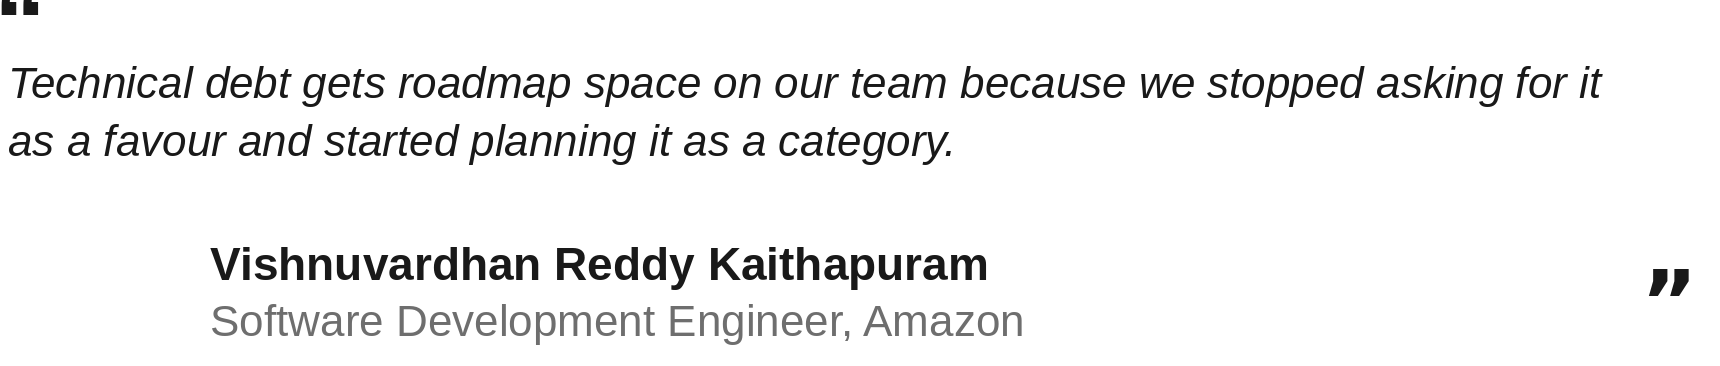
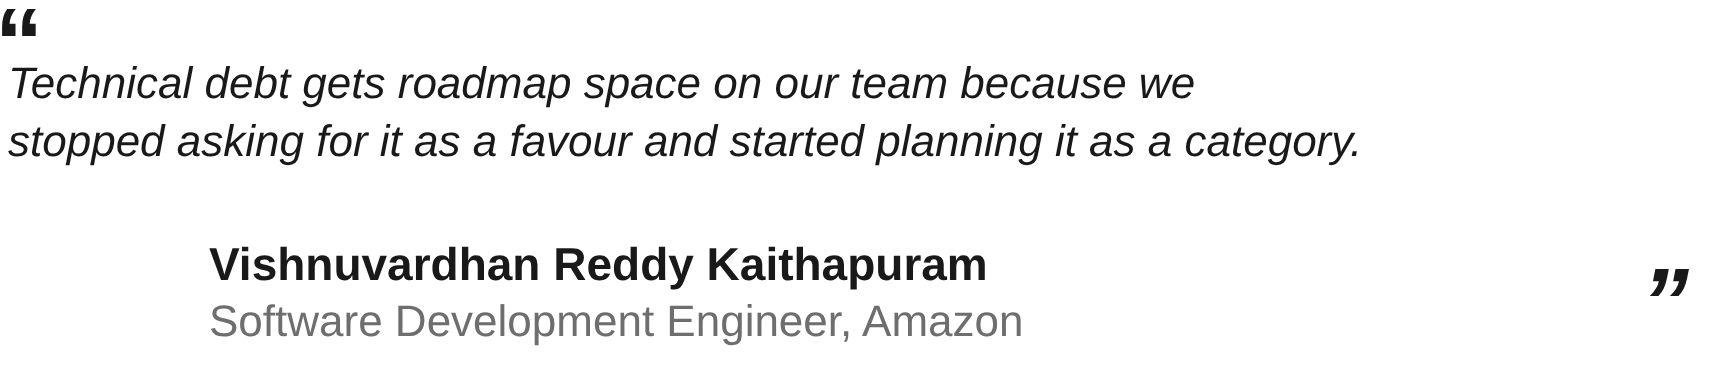
fix(featured): render every quote card from one template
What changed
- scripts/render-quote-card.py: renders a Featured In quote card as
  lossless WebP from the quote text, exactly as published. One HTML
  template (1720 by 366, Arial or a metric twin, the existing cards'
  sizes and positions to within a pixel), drawn in Chromium.
- The four cards made for this site (Informatics Magazine Nov 2 and
  Nov 3, CTO Sync Nov 3, Tech Magazine Nov 4) are re-rendered from it.
  Their wording is unchanged; it matches the published articles word
  for word, spelling included ("favour", "prioritise").
- README and how-the-site-works name the script.

Why
- On all four cards the opening quote mark was cut off at the top edge,
  leaving only its lower sliver. It now sits whole inside the card.
- The Tech Magazine card was set in a different typeface, with a larger
  name line, so the carousel stopped reading as one set.
- The quote lines are balanced: no card ends on a stub such as "day's
  events due to partial outages" under a full first line.

How verified
Measured text bands against the CTO Sync card before the change; the
template lands within 2px on every line. Rerunning the script
reproduces each committed file byte for byte. Each quote checked
against its live article: the Nov 3 and Nov 4 quotes appear word for
word, with the stated section headings and dates.

Claude-Session: https://claude.ai/code/session_01DFHbYYyo8HvuWXtSsiBwqD

diff --git a/scripts/render-quote-card.py b/scripts/render-quote-card.py
@@ -1,0 +1,91 @@
+#!/usr/bin/env python3
+"""Render a Featured In quote card as lossless WebP.
+
+    python3 scripts/render-quote-card.py assets/quote-<slug>.webp "Quote text, as published."
+
+The cards for the Informatics Magazine, CTO Sync, and Tech Magazine quotes
+are made for this site in the style of the Label Your Data quote blocks:
+1720 by 366, white, the quote in italics under an opening mark, then the
+credit line with a closing mark at the right. There is no photo, by the
+owner's rule for this site. Every card comes from this one template, so
+the carousel reads as a set: same typeface, sizes, and positions. The two
+quote lines are balanced, so no card ends on a stub of a line.
+
+The quote text is passed exactly as published, spelling included
+("favour", "prioritise"). The credit line defaults to the one on every
+card; --name and --title change it.
+
+Needs Playwright with a Chromium (the test suite's) and Pillow. The type
+is Arial, or a metric-compatible substitute such as Liberation Sans, so
+line breaks fall where they do on the existing cards.
+"""
+
+from __future__ import annotations
+
+import argparse
+import html
+import sys
+import tempfile
+from pathlib import Path
+
+ROOT = Path(__file__).resolve().parents[1]
+sys.path.insert(0, str(ROOT / "tests"))
+
+from helpers import chromium_launch_kwargs  # noqa: E402
+from playwright.sync_api import sync_playwright  # noqa: E402
+
+WIDTH, HEIGHT = 1720, 366
+
+TEMPLATE = """<!doctype html><html><head><meta charset="utf-8"><style>
+html,body{{margin:0;width:{w}px;height:{h}px;background:#fff;overflow:hidden}}
+body{{position:relative;font-family:Arial,"Liberation Sans",Helvetica,sans-serif;color:#191919}}
+.open,.close{{position:absolute;font-weight:700;line-height:1;color:#191919}}
+.open{{left:-5px;top:{open_top}px;font-size:{mark}px}}
+.close{{right:31px;top:{close_top}px;font-size:{mark}px;font-style:italic}}
+.quote{{position:absolute;left:8px;top:{quote_top}px;width:1610px;margin:0;font-style:italic;font-size:{quote_size}px;line-height:{quote_lh}px;text-wrap:balance}}
+.name{{position:absolute;left:209px;top:{name_top}px;margin:0;font-weight:700;font-size:{name_size}px;line-height:1.15;color:#191919}}
+.title{{position:absolute;left:209px;top:{title_top}px;margin:0;font-size:{title_size}px;line-height:1.15;color:#6e6e6e}}
+</style></head><body>
+<span class="open">&ldquo;</span>
+<p class="quote">{quote}</p>
+<p class="name">{name}</p>
+<p class="title">{title}</p>
+<span class="close">&rdquo;</span>
+</body></html>"""
+
+LAYOUT = dict(open_top=-6, mark=96, close_top=254, quote_top=54, quote_size=44, quote_lh=58,
+              name_top=238, name_size=46, title_top=296, title_size=44)
+
+
+def render(out: Path, quote: str, name: str, title: str, layout: dict = LAYOUT) -> None:
+    from PIL import Image
+
+    page_html = TEMPLATE.format(w=WIDTH, h=HEIGHT, quote=html.escape(quote), name=html.escape(name),
+                                title=html.escape(title), **layout)
+    with tempfile.TemporaryDirectory() as tmp:
+        png = Path(tmp) / "card.png"
+        with sync_playwright() as p:
+            browser = p.chromium.launch(**chromium_launch_kwargs(), args=["--no-sandbox"])
+            page = browser.new_page(viewport={"width": WIDTH, "height": HEIGHT}, device_scale_factor=1)
+            page.set_content(page_html)
+            lines = page.evaluate("Math.round(document.querySelector('.quote').getBoundingClientRect().height / %d)" % layout["quote_lh"])
+            if lines > 2:
+                raise SystemExit(f"quote runs to {lines} lines; the card holds two")
+            page.screenshot(path=str(png), clip={"x": 0, "y": 0, "width": WIDTH, "height": HEIGHT})
+            browser.close()
+        Image.open(png).convert("RGB").save(out, "WEBP", lossless=True, method=6)
+
+
+def main() -> None:
+    ap = argparse.ArgumentParser(description=__doc__.splitlines()[0])
+    ap.add_argument("out", type=Path)
+    ap.add_argument("quote")
+    ap.add_argument("--name", default="Vishnuvardhan Reddy Kaithapuram")
+    ap.add_argument("--title", default="Software Development Engineer, Amazon")
+    args = ap.parse_args()
+    render(args.out, args.quote, args.name, args.title)
+    print(f"wrote {args.out}, {args.out.stat().st_size} bytes")
+
+
+if __name__ == "__main__":
+    main()

diff --git a/README.md b/README.md
@@ -35,7 +35,7 @@ The site is a hand-built static page: plain HTML, CSS, and JavaScript. No framew
 | `assets/favicon.svg` | The only brand mark. |
 | `assets/apple-touch-icon.png` | The home-screen icon: the favicon drawn full-bleed at 180px. `scripts/render-touch-icon.py` renders it from the favicon. |
 | `assets/quote-eu-ai-act.webp`, `assets/quote-golden-dataset.webp` | Screenshots of the published Label Your Data quote blocks, used in the Featured In carousel. Lossless WebP (v5): every pixel of the original PNG, at less than half the size. |
-| `assets/quote-informatics-access-privacy.webp` | The quote card for the Informatics Magazine quote, made for this site in the same style. Lossless WebP, like the two above. |
+| `assets/quote-informatics-access-privacy.webp` | The quote card for the Informatics Magazine quote, made for this site in the same style. Lossless WebP, like the two above. Every quote card comes from `scripts/render-quote-card.py`, so they share one typeface and layout. |
 | `assets/quote-informatics-everyday-decisions.webp` | The quote card for the second Informatics Magazine quote, made for this site in the same style. Lossless WebP, like the ones above. |
 | `assets/quote-cto-sync-technical-debt.webp` | The quote card for the CTO Sync quote, made for this site in the same style. Lossless WebP, like the ones above. |
 | `assets/quote-tech-magazine-customer-requests.webp` | The quote card for the Tech Magazine quote, made for this site in the same style. Lossless WebP, like the ones above. |
@@ -58,9 +58,9 @@ The site is a hand-built static page: plain HTML, CSS, and JavaScript. No framew
 
 | Folder | What it holds |
 | --- | --- |
-| `assets/` | The site's images: the favicon and home-screen icon, the data hero figure, the share card, the lineage core artwork, the three quote images, and the publisher logos. |
+| `assets/` | The site's images: the favicon and home-screen icon, the data hero figure, the share card, the lineage core artwork, the six quote images, and the publisher logos. |
 | `tests/` | The automated test suite: one module per area, plus shared browser helpers. `docs/test-plan.md` says what each module protects. |
-| `scripts/` | `run-tests.sh`, the one command that runs the whole suite locally, and `render-touch-icon.py`, which renders the home-screen icon from the favicon. |
+| `scripts/` | `run-tests.sh`, the one command that runs the whole suite locally; `render-touch-icon.py`, which renders the home-screen icon from the favicon; and `render-quote-card.py`, which renders a Featured In quote card. |
 | `docs/` | The working documents, kept in the repo: how the site works, motion, the query console, publisher logos, the cursor bot, the lineage core, the content rules, deployment, testing, and the test plan. |
 | `.github/workflows/` | The CI workflow (`site-checks`) that runs the same suite on every push and pull request. |
 

diff --git a/docs/how-the-site-works.md b/docs/how-the-site-works.md
@@ -7,7 +7,7 @@
 - `robots.txt` and `sitemap.xml`: every crawler may read everything; the sitemap lists the one canonical URL.
 - `style.css`: every style, both themes, the print stylesheet, and the reduced-motion rules.
 - `app.js`: all behavior: the background graph, the theme toggle, the case files, the command palette, the lineage explorer and its send-a-record buttons, the quote carousel, the animated core, the cursor bot, the query console, and the first-view reveals.
-- `assets/`: the three quote images (lossless WebP), the favicon and the home-screen icon rendered from it, the hero figure and its video, the share card, the original still versions of the lineage core artwork, and the publisher logos in `assets/logos/`.
+- `assets/`: the six quote images (lossless WebP; the four quote cards come from `scripts/render-quote-card.py`), the favicon and the home-screen icon rendered from it, the hero figure and its video, the share card, the original still versions of the lineage core artwork, and the publisher logos in `assets/logos/`.
 - `LICENSE`: MIT, for the code. The words on the page are not part of the license.
 
 ## Themes
